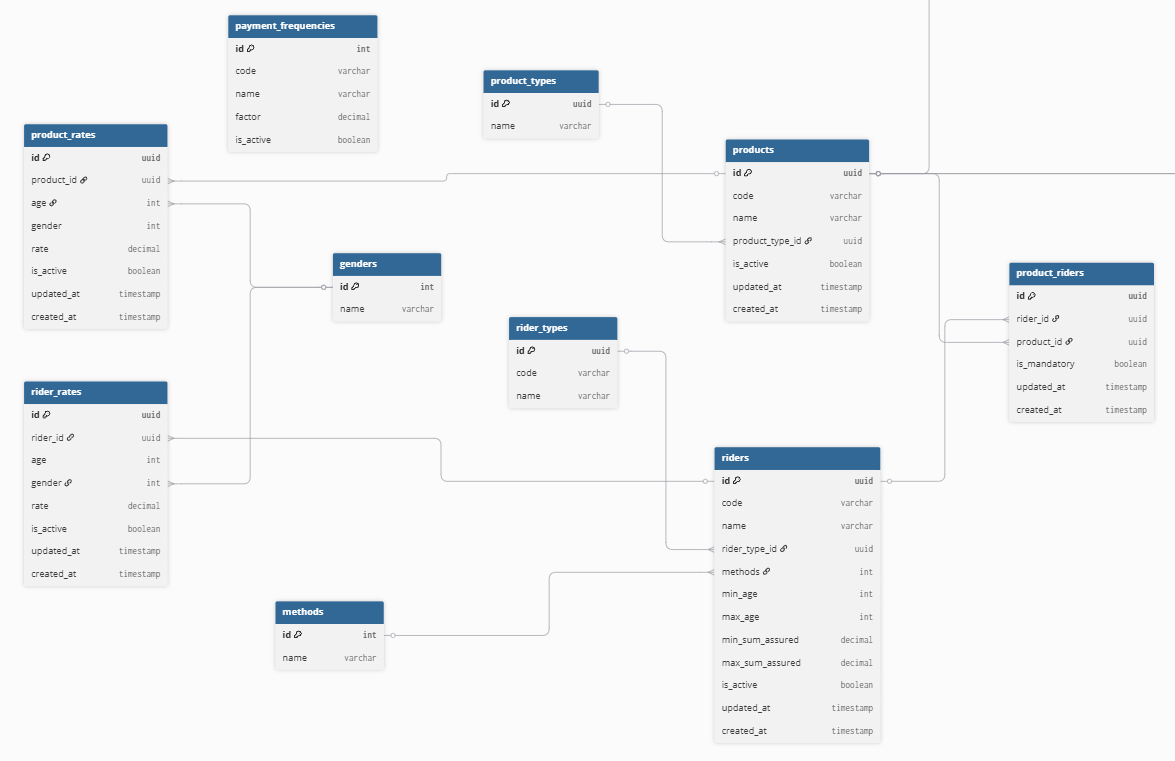
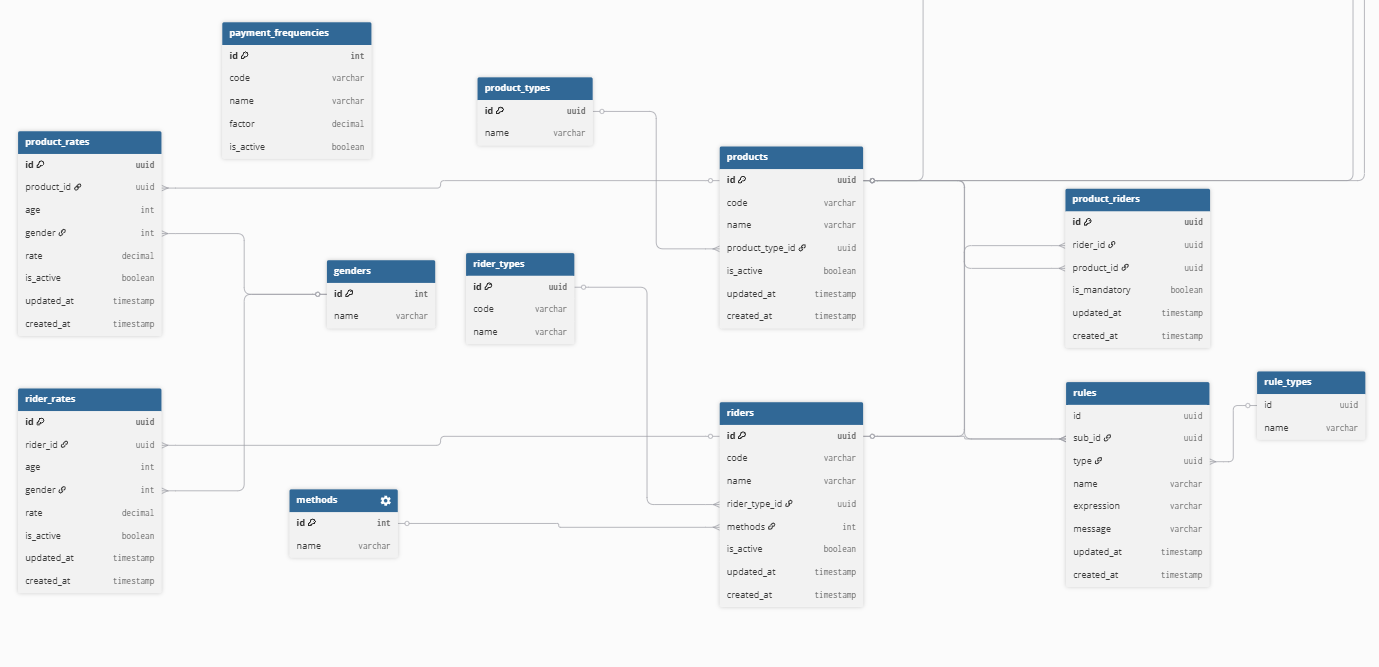
Initial Commit

diff --git a/product-service/src/main/java/com/insureflow/product/constant/ColumnConstant.java b/product-service/src/main/java/com/insureflow/product/constant/ColumnConstant.java
@@ -3,8 +3,10 @@ package com.insureflow.product.constant;
 public class ColumnConstant {
     private ColumnConstant() {}
     public static final String ID = "id";
+    public static final String SUB_ID = "sub_id";
     public static final String NAME = "name";
     public static final String CODE = "code";
+    public static final String TYPE_ID = "type_id";
     public static final String PRODUCT_TYPE_ID = "product_type_id";
     public static final String RIDER_TYPE_ID = "rider_type_id";
     public static final String PRODUCT_ID = "product_id";
@@ -12,6 +14,7 @@ public class ColumnConstant {
     public static final String METHODS = "methods";
     public static final String AGE = "age";
     public static final String GENDER = "gender";
+    public static final String MESSAGE = "message";
     public static final String RATE = "rate";
     public static final String MIN_AGE = "min_age";
     public static final String MAX_AGE = "max_age";
@@ -19,6 +22,7 @@ public class ColumnConstant {
     public static final String MAX_SUM_ASSURED = "max_sum_assured";
     public static final String IS_MANDATORY = "is_mandatory";
     public static final String FACTOR = "factor";
+    public static final String EXPRESSION = "expression";
     public static final String IS_ACTIVE = "is_active";
     public static final String UPDATED_AT = "updated_at";
     public static final String CREATED_AT = "created_at";

diff --git a/product-service/src/main/java/com/insureflow/product/entity/Rule.java b/product-service/src/main/java/com/insureflow/product/entity/Rule.java
@@ -1,0 +1,46 @@
+package com.insureflow.product.entity;
+
+import com.insureflow.product.constant.ColumnConstant;
+import com.insureflow.product.constant.TableConstant;
+import jakarta.persistence.*;
+import lombok.*;
+import org.hibernate.annotations.CreationTimestamp;
+import org.hibernate.annotations.UpdateTimestamp;
+import java.time.LocalDateTime;
+import java.util.UUID;
+
+@Entity
+@Table(name = TableConstant.RULES)
+@Getter @Setter
+@NoArgsConstructor @AllArgsConstructor
+@Builder
+public class Rule {
+    @Id
+    @GeneratedValue(strategy = GenerationType.UUID)
+    @Column(name = ColumnConstant.ID)
+    private UUID id;
+
+    @Column(name = ColumnConstant.SUB_ID, nullable = false)
+    private UUID subId;
+
+    @ManyToOne(fetch = FetchType.LAZY)
+    @JoinColumn(name = ColumnConstant.TYPE_ID)
+    private RuleType type;
+
+    @Column(name = ColumnConstant.NAME, nullable = false)
+    private String name;
+
+    @Column(name = ColumnConstant.EXPRESSION, nullable = false, columnDefinition = "TEXT")
+    private String expression;
+
+    @Column(name = ColumnConstant.MESSAGE)
+    private String message;
+
+    @CreationTimestamp
+    @Column(name = ColumnConstant.CREATED_AT, updatable = false)
+    private LocalDateTime createdAt;
+
+    @UpdateTimestamp
+    @Column(name = ColumnConstant.UPDATED_AT)
+    private LocalDateTime updatedAt;
+}

diff --git a/product-service/src/main/java/com/insureflow/product/service/ProductService.java b/product-service/src/main/java/com/insureflow/product/service/ProductService.java
@@ -10,6 +10,9 @@ import com.insureflow.product.repository.ProductTypeRepository;
 import com.insureflow.product.repository.RiderRepository;
 import lombok.RequiredArgsConstructor;
 import org.springframework.cache.annotation.Cacheable;
+import org.springframework.expression.ExpressionParser;
+import org.springframework.expression.spel.standard.SpelExpressionParser;
+import org.springframework.expression.spel.support.StandardEvaluationContext;
 import org.springframework.stereotype.Service;
 
 import java.util.ArrayList;
@@ -46,5 +49,13 @@ public class ProductService {
         }
 
         return riders;
+    }
+
+    public boolean validate(String expression, Object data) {
+        ExpressionParser parser = new SpelExpressionParser();
+        StandardEvaluationContext context = new StandardEvaluationContext();
+        context.setVariable("input", data);
+
+        return Boolean.TRUE.equals(parser.parseExpression(expression).getValue(context, Boolean.class));
     }
 }

diff --git a/product-service/src/main/java/com/insureflow/product/entity/Rider.java b/product-service/src/main/java/com/insureflow/product/entity/Rider.java
@@ -29,18 +29,6 @@ public class Rider {
     @Column(name = ColumnConstant.METHODS)
     private Integer methodId;
 
-    @Column(name = ColumnConstant.MIN_AGE)
-    private Integer minAge;
-
-    @Column(name = ColumnConstant.MAX_AGE)
-    private Integer maxAge;
-
-    @Column(name = ColumnConstant.MIN_SUM_ASSURED, precision = 15, scale = 2)
-    private java.math.BigDecimal minSumAssured;
-
-    @Column(name = ColumnConstant.MAX_SUM_ASSURED, precision = 15, scale = 2)
-    private java.math.BigDecimal maxSumAssured;
-
     @Column(name = ColumnConstant.IS_ACTIVE)
     private Boolean isActive = true;
 

diff --git a/product-service/src/main/java/com/insureflow/product/entity/RuleType.java b/product-service/src/main/java/com/insureflow/product/entity/RuleType.java
@@ -1,0 +1,21 @@
+package com.insureflow.product.entity;
+
+import com.insureflow.product.constant.ColumnConstant;
+import com.insureflow.product.constant.TableConstant;
+import jakarta.persistence.*;
+import lombok.*;
+import java.util.UUID;
+
+@Entity
+@Table(name = TableConstant.RULE_TYPES)
+@Getter @Setter
+@NoArgsConstructor @AllArgsConstructor
+public class RuleType {
+    @Id
+    @GeneratedValue(strategy = GenerationType.UUID)
+    @Column(name = ColumnConstant.ID)
+    private UUID id;
+
+    @Column(name = ColumnConstant.NAME, nullable = false, unique = true)
+    private String name;
+}

diff --git a/product-service/src/main/java/com/insureflow/product/constant/TableConstant.java b/product-service/src/main/java/com/insureflow/product/constant/TableConstant.java
@@ -12,4 +12,6 @@ public class TableConstant {
     public static final String GENDERS = "genders";
     public static final String METHODS = "methods";
     public static final String PAYMENT_FREQUENCIES = "payment_frequencies";
+    public static final String RULES = "rules";
+    public static final String RULE_TYPES = "rule_types";
 }

diff --git a/product-service/src/main/java/com/insureflow/product/repository/RuleTypeRepository.java b/product-service/src/main/java/com/insureflow/product/repository/RuleTypeRepository.java
@@ -1,0 +1,9 @@
+package com.insureflow.product.repository;
+
+import com.insureflow.product.entity.RuleType;
+import org.springframework.data.jpa.repository.JpaRepository;
+
+import java.util.UUID;
+
+public interface RuleTypeRepository extends JpaRepository<RuleType, UUID> {
+}

diff --git a/product-service/src/main/java/com/insureflow/product/repository/RuleRepository.java b/product-service/src/main/java/com/insureflow/product/repository/RuleRepository.java
@@ -1,0 +1,9 @@
+package com.insureflow.product.repository;
+
+import com.insureflow.product.entity.Rule;
+import org.springframework.data.jpa.repository.JpaRepository;
+
+import java.util.UUID;
+
+public interface RuleRepository extends JpaRepository<Rule, UUID> {
+}
